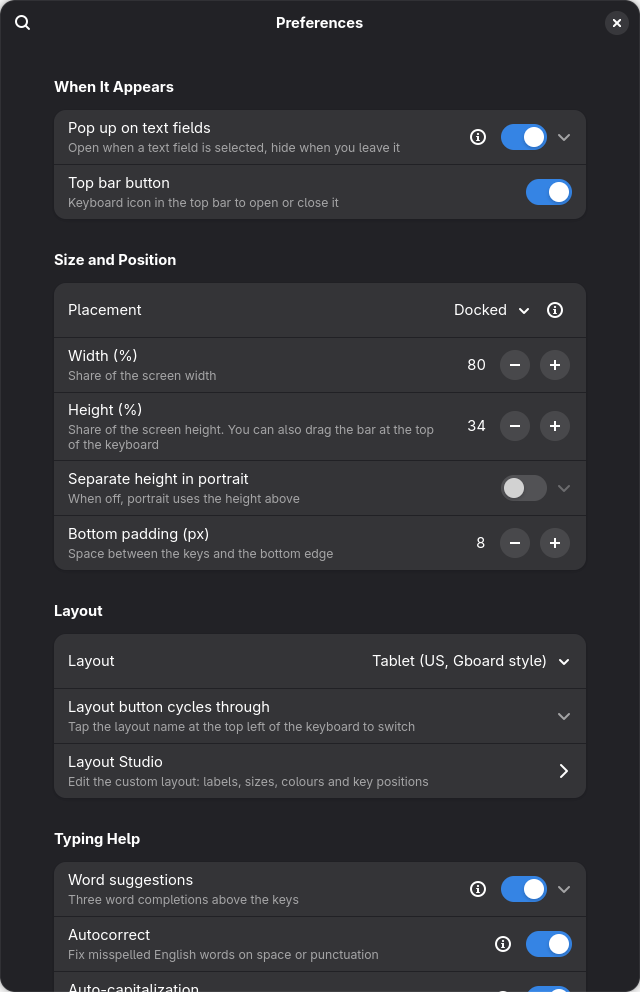
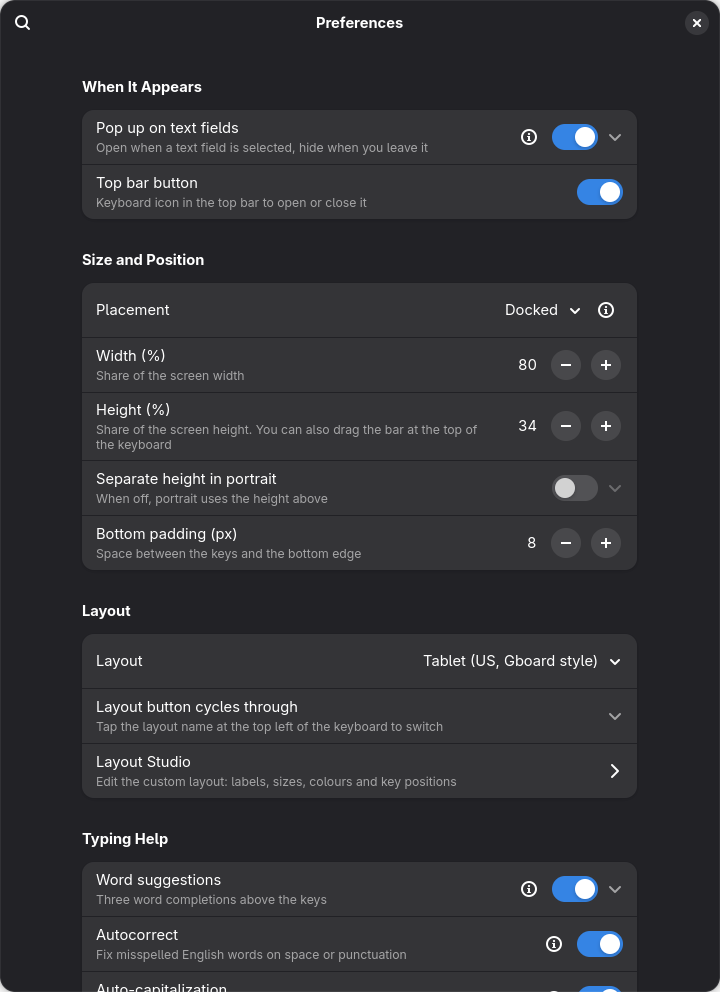
Release 1.3.0: one-page settings, Layout Studio sub-page, new screenshots

diff --git a/README.md b/README.md
@@ -19,19 +19,20 @@ Formerly **Apropos OSK** (`apropos-osk@besho-sho`); renamed to Tabula OSK in ver
 
 ## Screenshots
 
-The docked keyboard with word suggestions:
-![Tabula OSK docked at the bottom of the screen, with word suggestions above the keys](screenshots/keyboard.png)
+The Tablet layout (Material style), docked, with next-word suggestions in the header:
+![Tabula OSK Tablet layout docked at the bottom of the screen, with next-word suggestions](screenshots/tablet-suggestions.png)
 
-The settings window:
-![Tabula OSK settings window](screenshots/settings.png)
+Hold a key for accents and symbols; slide to one and let go:
+![Long-press popup with accented e variants](screenshots/long-press.png)
 
-## Demo
+The US TKL layout in the Fluent style:
+![US TKL layout with Esc, function row keys, arrows and all modifiers](screenshots/fluent-us.png)
 
-Move the cursor by dragging on the space bar:
-<img width="1000" height="285" alt="spaceslider" src="https://github.com/user-attachments/assets/1bc6c466-9778-4bc9-a782-9a8b6c2f9f75" />
-
-Select and delete text by dragging on Backspace:
-<img width="1000" height="285" alt="backslider" src="https://github.com/user-attachments/assets/1d0c86d2-7fce-4ced-9b43-6085090619ed" />
+The settings window and the Layout Studio:
+<p>
+<img src="screenshots/settings.png" alt="Tabula OSK settings window" width="49%">
+<img src="screenshots/layout-studio.png" alt="Layout Studio, the visual editor for a custom layout" width="49%">
+</p>
 
 ## Installation
 
@@ -78,7 +79,7 @@ and the *Atkinson Hyperlegible Next* font for the default key labels. If that fo
 ### Layout and keys
 * **TKL layout:** Esc, a combined number/Fn row (F1 to F12), arrows, and all modifiers: Shift, Ctrl, Alt, AltGr, Super and Fn.
   Combinations such as `Ctrl+Alt+Del` and `Super+key` work.
-* **Built-in layouts:** Italian (ISO, with the tall Enter key), US (ANSI), and **Tablet (US, Gboard style)**: a touch layout
+* **Built-in layouts:** US (ANSI) and **Tablet (US, Gboard style)**: a touch layout
   laid out like Gboard's tablet keyboard: `` ` `` and the number row ending in `Backspace`; `Tab` (hold for `Esc`) and `|` (Shift for `\`) around the top letter row; `Caps Lock` and `Enter` (→) around the home row; `Shift` on both sides with `,` `.` beside `m` (hold `,` for the emoji chooser in GTK apps, hold `.` for `./` `../` `~/` `.com`); and `Ctrl` `❖` `/` `Space` `▲` `▼` at the bottom (slide on Space for Left/Right). Tap `❖` for Super, long-press it for a sticky `Alt` (tap it again to release). Long-press `▲`/`▼` for Page Up/Down (▼ starts on Page Down), or Shift+Page Up/Down to scroll a terminal's history.
 * **Modifier behavior:** each key can work as a normal key (hold) or as an on/off switch (latch).
 * **Modified-key highlight:** while Shift, AltGr or Fn is active, the keys that change symbol are colored. The colors can be changed.

diff --git a/CHANGES.md b/CHANGES.md
@@ -1,6 +1,6 @@
 # Changes
 
-## Unreleased
+## 1.3.0 (2026-11-12)
 - **Settings window reorganized** into one scrolling page (no tabs) with five sections: **When It Appears**, **Size and
   Position**, **Layout**, **Typing Help** and **Appearance**. Options that depend on another one sit inside it and are only
   shown when it is on; long explanations moved into (i) popovers that also work with touch. The window can be searched.
@@ -12,6 +12,8 @@
   asks before discarding unsaved edits; a deleted key can be restored with *Undo*; new keys are added after the selected one.
 - The Italian layout is no longer offered in the settings (it stays in the code and is listed only if it is the layout in
   use). New installs start on the Tablet layout, cycling between US and Tablet.
+- README: all screenshots retaken (Tablet with suggestions, long-press accents, Fluent US TKL, settings, Layout Studio);
+  the old demo images from the original project are gone.
 
 ## 1.2.0 (2026-11-06)
 - **Renamed to Tabula OSK** (was Apropos OSK, which also clashed with the `apropos` command). New extension ID
